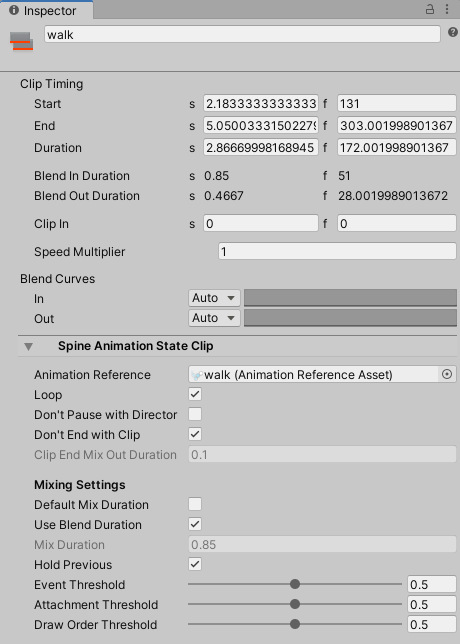
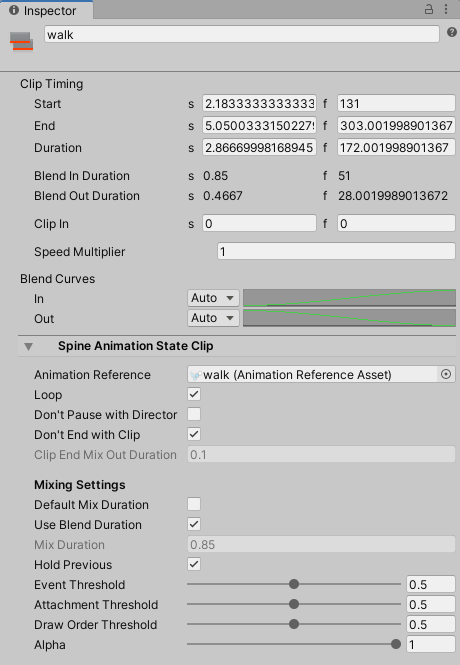
[unity] Added UPM package readme.md file documentation to last commit (added clip `Alpha` parameter).

diff --git a/spine-unity/Modules/com.esotericsoftware.spine.timeline/Documentation/README.md b/spine-unity/Modules/com.esotericsoftware.spine.timeline/Documentation/README.md
@@ -58,6 +58,7 @@ You can add a `Spine Animation State Clip` to a `SkeletonAnimation Track` (or `S
 - *Event Threshold.* See [TrackEntry.EventThreshold](http://esotericsoftware.com/spine-api-reference#TrackEntry-eventThreshold).
 - *Attachment Threshold.* See [TrackEntry.AttachmentThreshold](http://esotericsoftware.com/spine-api-reference#TrackEntry-attachmentThreshold).
 - *Draw Order Threshold.* See [TrackEntry.DrawOrderThreshold](http://esotericsoftware.com/spine-api-reference#TrackEntry-drawOrderThreshold).
+- *Alpha.* See [TrackEntry.Alpha](http://esotericsoftware.com/spine-api-reference#TrackEntry-alpha).
 
 *Ignored Parameters*
 - *Ease Out Duration, Blend Curves*. These parameters are ignored and have no effect.
@@ -111,5 +112,3 @@ This track type can be used to flip the skeleton of the target `SkeletonAnimatio
 
 #### Known Issues
 - The Console potentially logs an incorrect and harmless error `DrivenPropertyManager has failed to register property "m_Script" of object "Spine GameObject (spineboy-pro)" with driver "" because the property doesn't exist.`. This is a known issue on Unity's end. See more here: https://forum.unity.com/threads/default-playables-text-switcher-track-error.502903/
-
-
